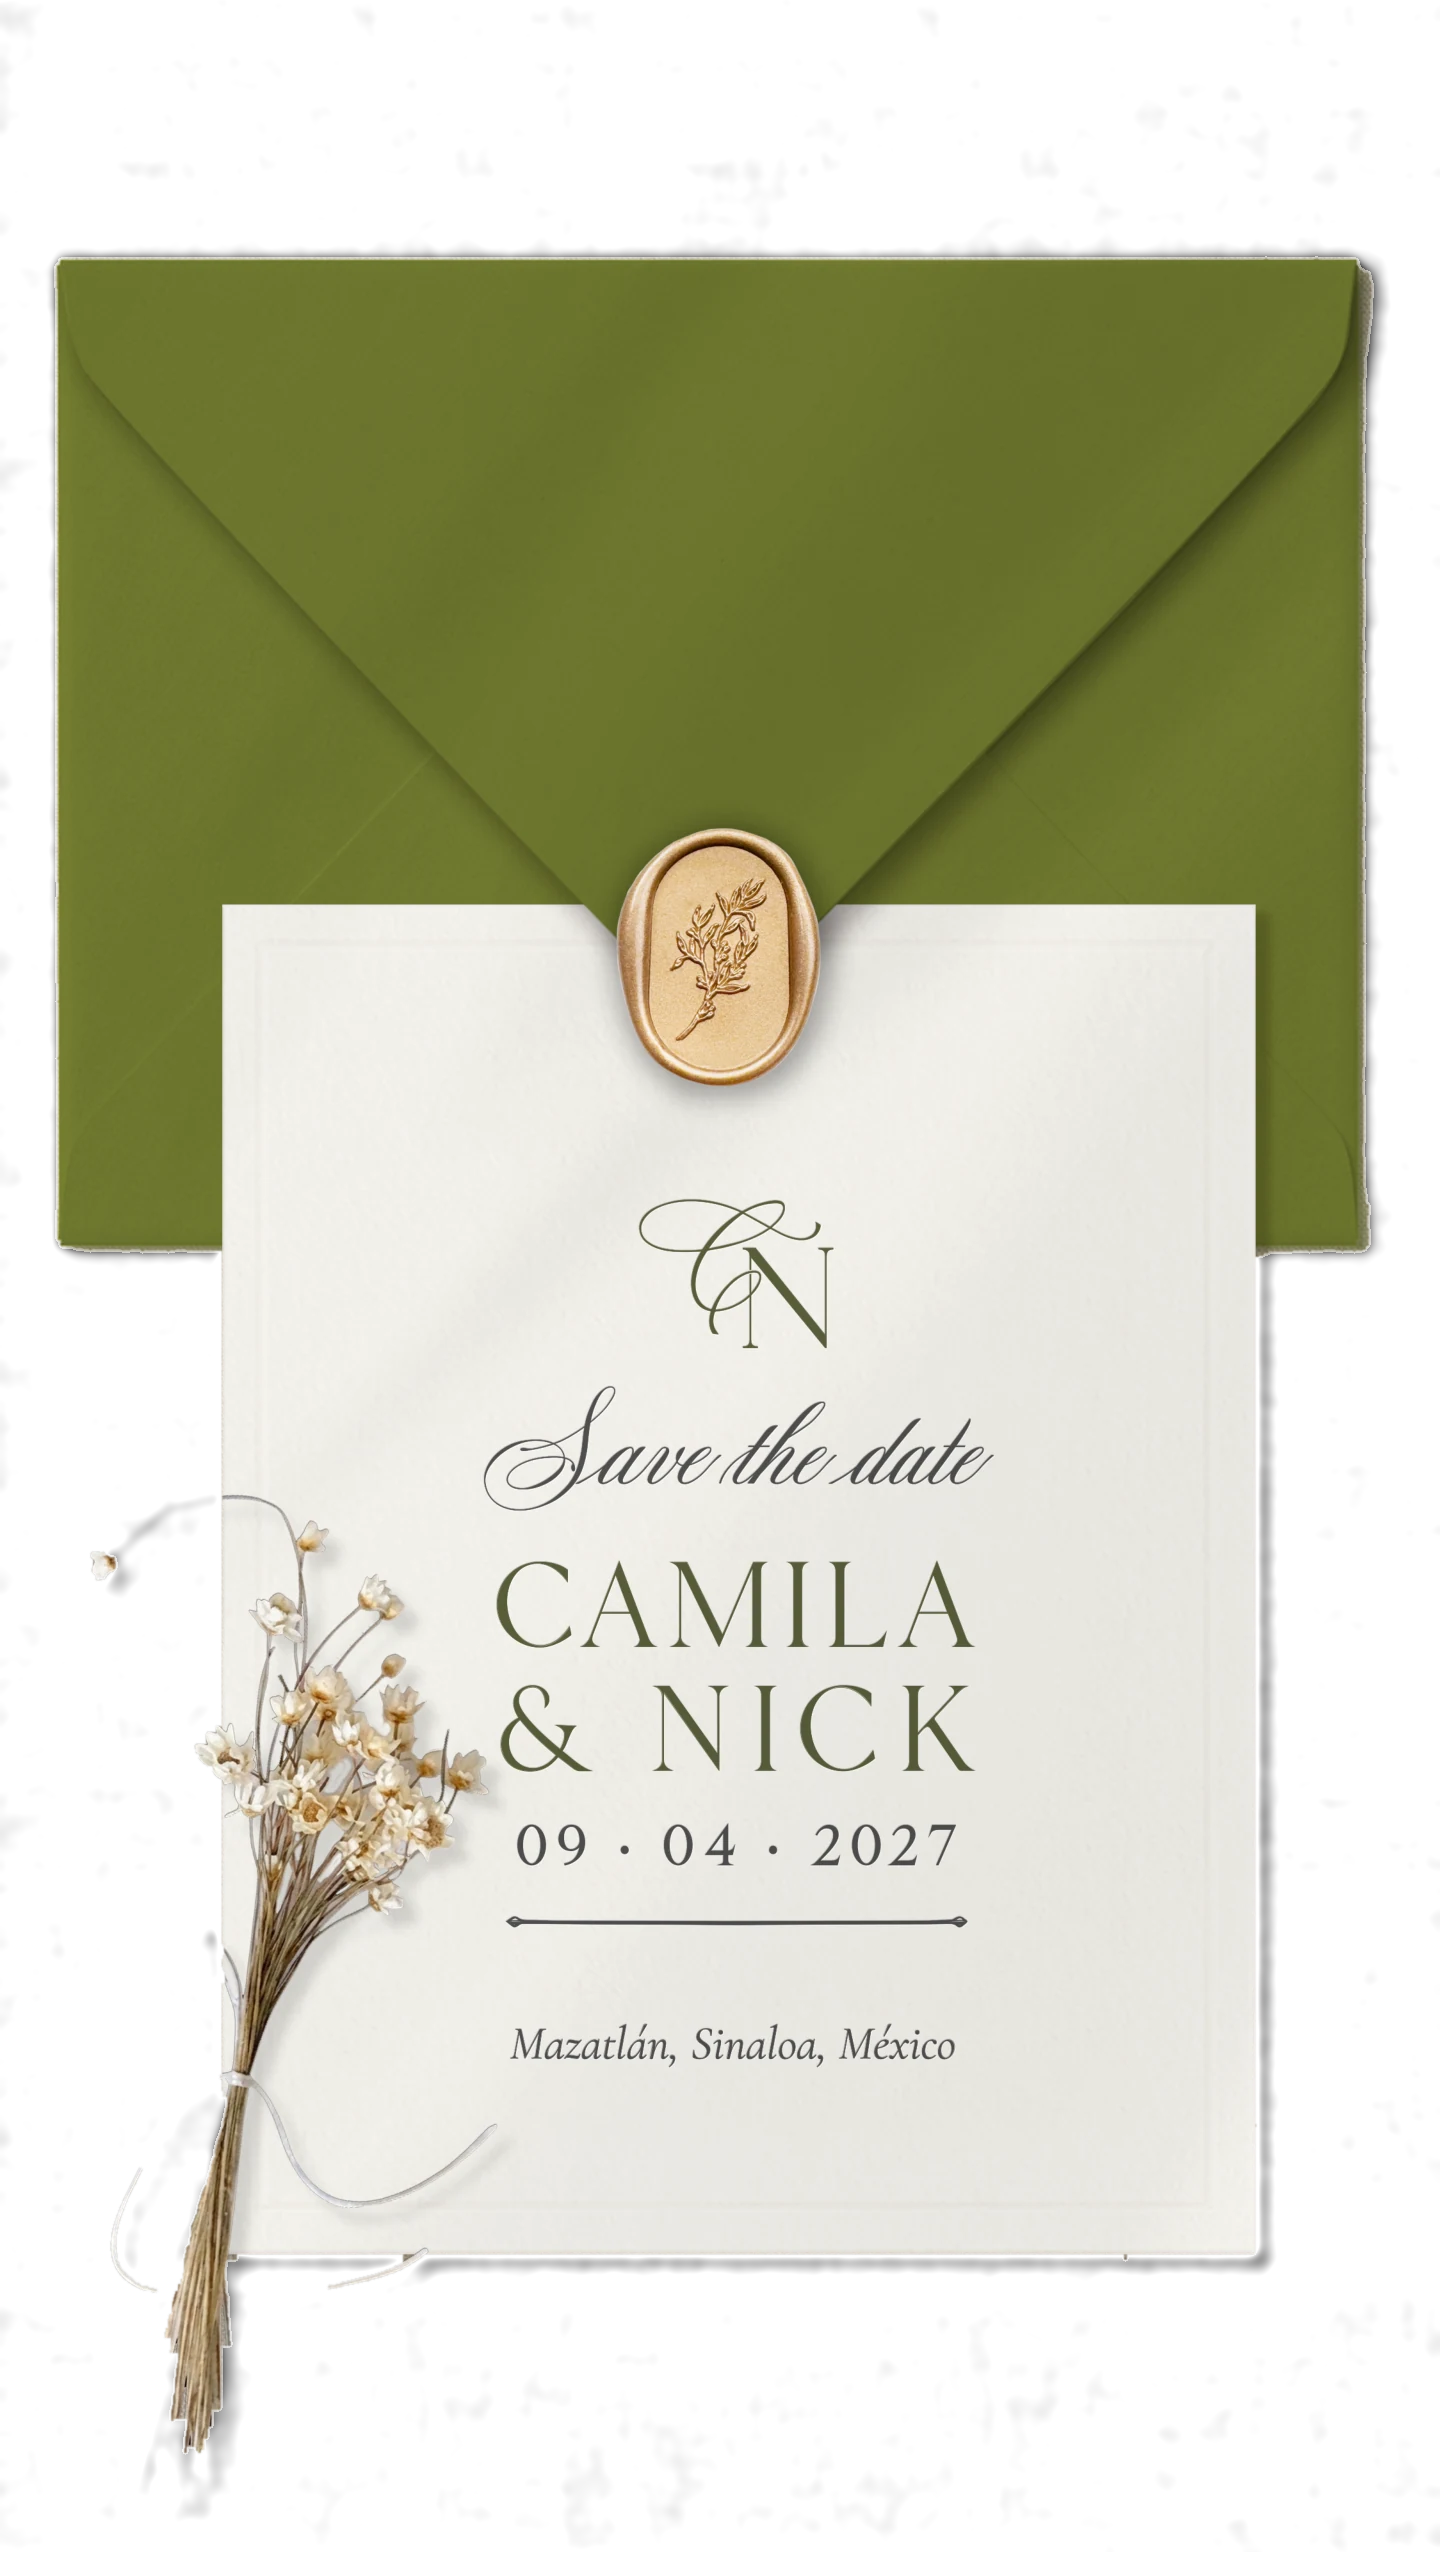
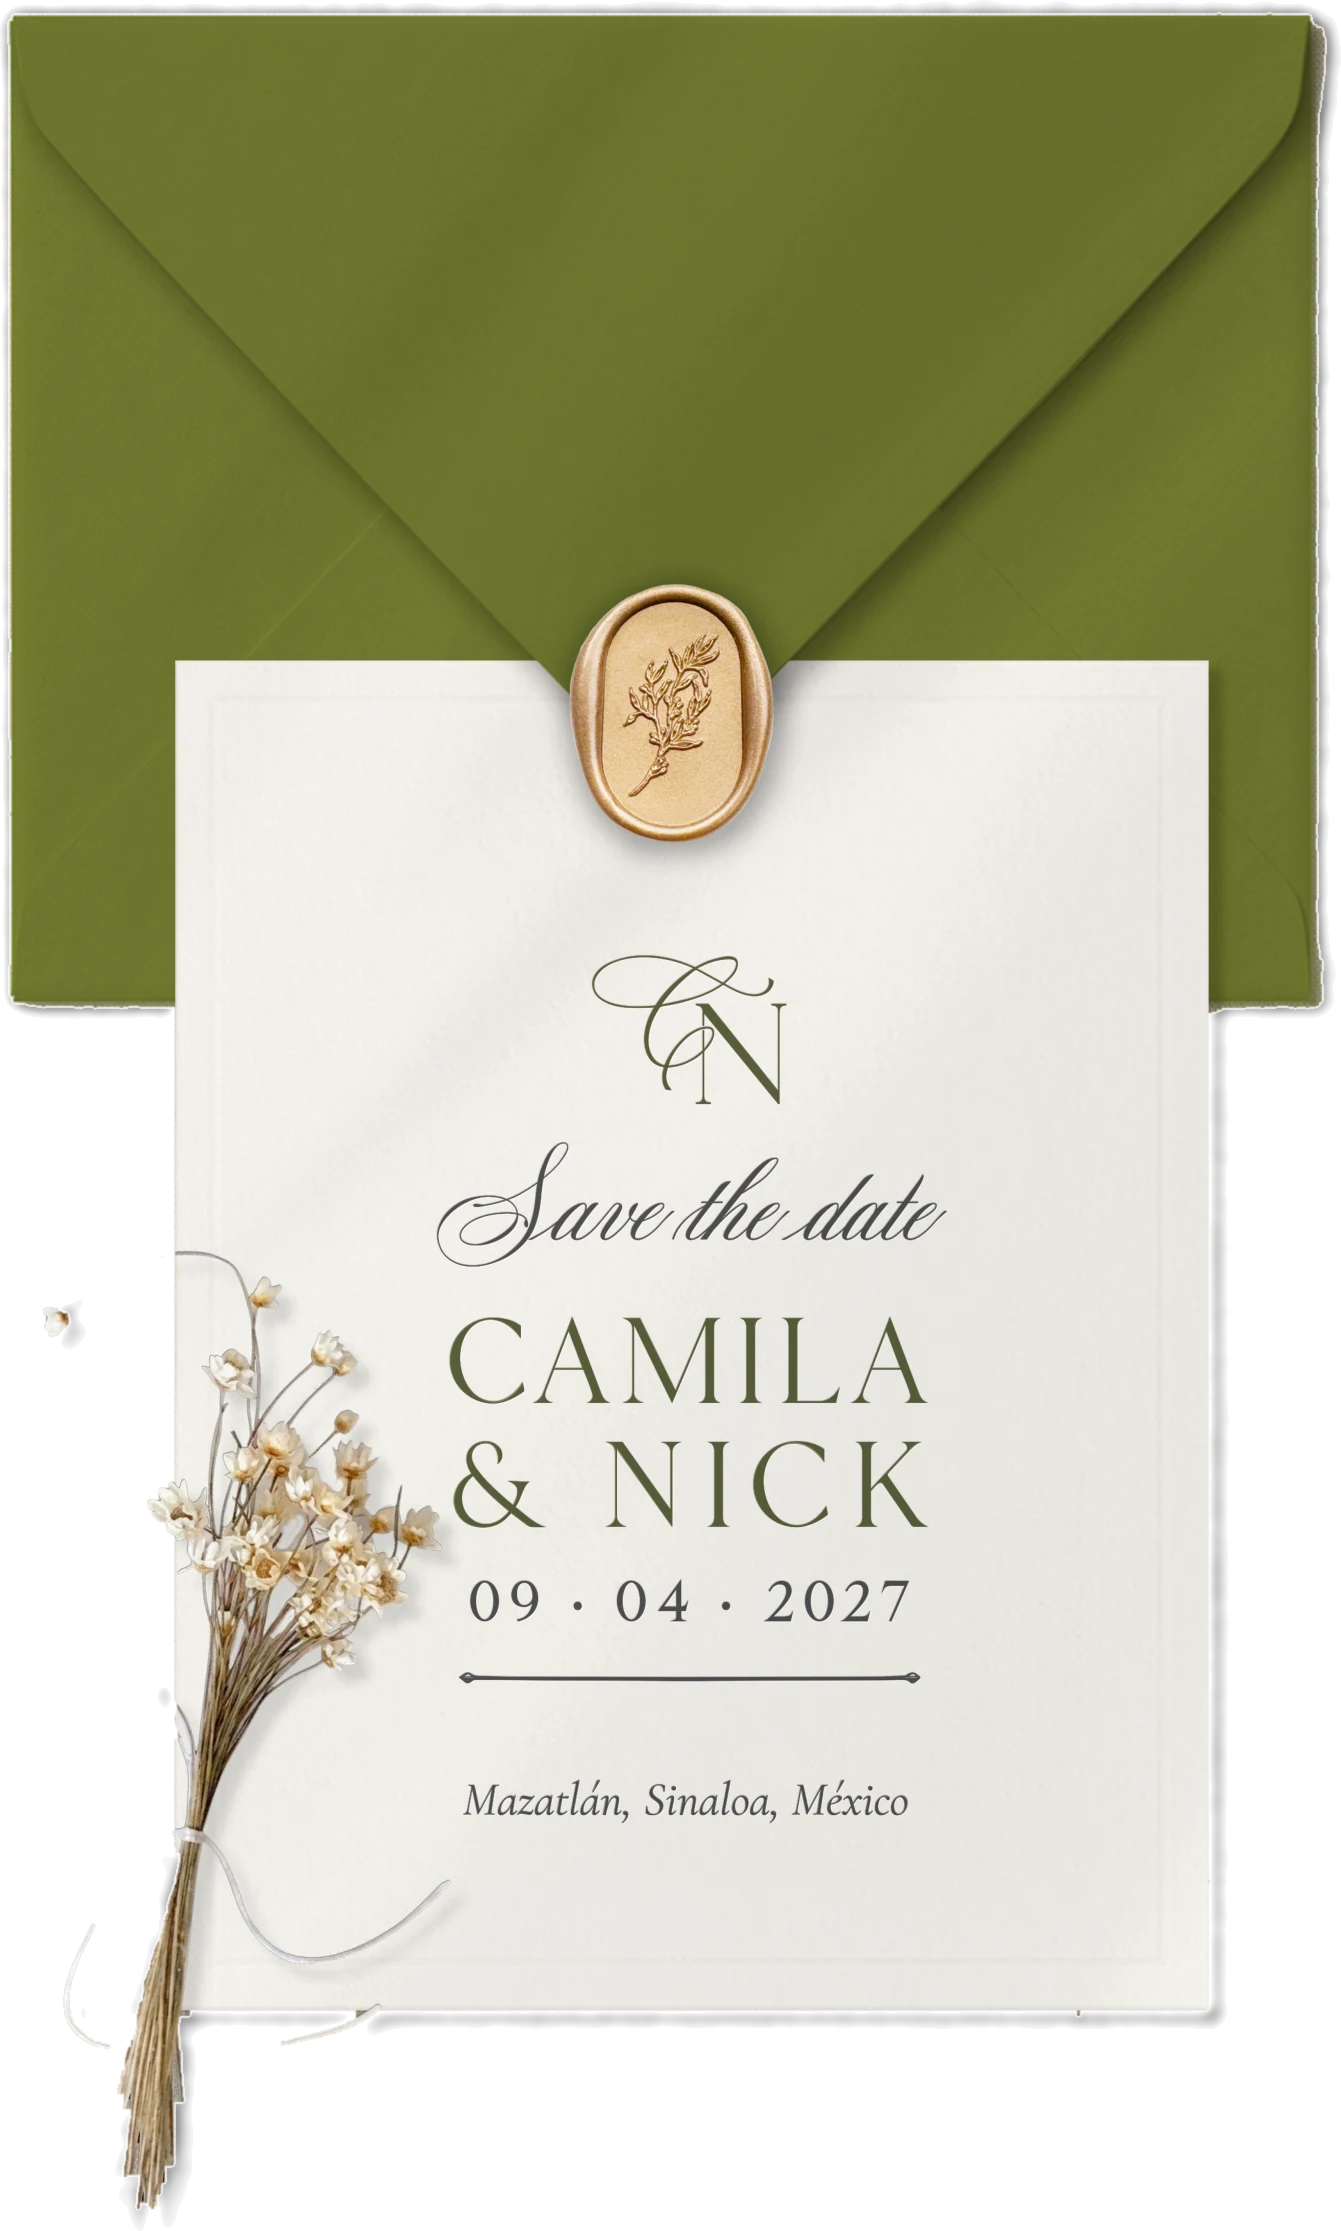
Clear space around cards, slower transitions, animated return to envelope
- Shadows trimmed to hug each card; empty linen around cards is fully transparent
- Opening and scroll reveal slowed by about a quarter
- Return to envelope plays in reverse: cards fade down, cover returns, card slides back in, flap closes, seal settles

Claude-Session: https://claude.ai/code/session_01VUW2DL1pxHZW5YBbu8ue5b

Changed region(s): [[0.0, 0.0, 1.0, 1.0], [0.0306, 0.5876, 0.1223, 0.6186]]

diff --git a/index.html b/index.html
@@ -20,7 +20,7 @@
 :root{color-scheme:light;--olive:#69722c;--olive-d:#565d27;--ink:#3c3d33;--soft:#5e5f52;--gold:#b8955a;--ivory:#fbf9f4;--line:#e3ddcf}
 *{box-sizing:border-box;min-width:0}
 html{scroll-behavior:smooth}
-body{margin:0;color:var(--ink);font:18px/1.55 "Cormorant Garamond",Georgia,serif;overflow-x:clip;background:#b7ac9d url(img/linen.jpg?v=9);background-size:360px}
+body{margin:0;color:var(--ink);font:18px/1.55 "Cormorant Garamond",Georgia,serif;overflow-x:clip;background:#b7ac9d url(img/linen.jpg?v=10);background-size:360px}
 body.locked{overflow:hidden;height:100vh}
 img{display:block;max-width:100%}
 button{font:inherit}
@@ -30,10 +30,10 @@ button{font:inherit}
 a{color:inherit}
 a[x-apple-data-detectors]{color:inherit!important;text-decoration:none!important;font:inherit!important}
 :focus-visible{outline:2px solid var(--gold);outline-offset:4px}
-.olivefill-unused{background:#93a246 url(img/linen.jpg?v=9);background-blend-mode:multiply;background-size:300px}
+.olivefill-unused{background:#93a246 url(img/linen.jpg?v=10);background-blend-mode:multiply;background-size:300px}
 
 /* ── cover ── */
-#cover{position:fixed;inset:0;z-index:40;display:grid;place-items:center;background:#b7ac9d url(img/linen.jpg?v=9);background-size:360px;transition:opacity .7s cubic-bezier(.4,0,.2,1)}
+#cover{position:fixed;inset:0;z-index:40;display:grid;place-items:center;background:#b7ac9d url(img/linen.jpg?v=10);background-size:360px;transition:opacity 1s cubic-bezier(.4,0,.2,1)}
 #cover.out{opacity:0;pointer-events:none}
 .cv{display:grid;justify-items:center;text-align:center;padding:24px;gap:4px}
 .cv .cvnames{font-size:clamp(46px,10vw,74px);margin:4px 0 30px}
@@ -42,7 +42,7 @@ a[x-apple-data-detectors]{color:inherit!important;text-decoration:none!important
 .env>*{position:absolute;pointer-events:none}
 .env-shadow{inset:1.5% 1% 0;border-radius:4px;box-shadow:0 30px 44px -20px rgba(40,35,20,.55),0 6px 14px rgba(0,0,0,.16)}
 .e-back{inset:0;border-radius:4px;background:linear-gradient(#4a521f,#5f6929)}
-.e-card{z-index:1;left:6%;right:6%;top:5%;bottom:3%;background:#fbf9f3;display:flex;flex-direction:column;align-items:center;padding-top:6%;gap:2px;box-shadow:0 1px 3px rgba(0,0,0,.18);transform:translate3d(0,0,0);transition:transform 1s cubic-bezier(.22,1,.36,1) .5s;will-change:transform}
+.e-card{z-index:1;left:6%;right:6%;top:5%;bottom:3%;background:#fbf9f3;display:flex;flex-direction:column;align-items:center;padding-top:6%;gap:2px;box-shadow:0 1px 3px rgba(0,0,0,.18);transform:translate3d(0,0,0);transition:transform 1.3s cubic-bezier(.22,1,.36,1) .65s;will-change:transform}
 .e-card::after{content:"";position:absolute;inset:4.5%;border:1px solid #e6e0d2}
 .e-card .mono{position:relative;width:44px;height:38px;color:var(--olive-d)}
 .e-card .mono b{position:absolute;left:2px;top:-8px;font:400 40px/1 "Pinyon Script",cursive}
@@ -51,17 +51,21 @@ a[x-apple-data-detectors]{color:inherit!important;text-decoration:none!important
 .e-card .nm{font:500 clamp(18px,4.2vw,26px)/1.05 "Cormorant Garamond",serif;letter-spacing:.08em;color:var(--olive-d)!important}
 .e-card .dt{font-size:12px;letter-spacing:.22em;color:var(--ink)!important;margin-top:4px}
 .e-card span{text-decoration:none!important}
-.e-pocket{z-index:2;inset:0;border-radius:4px;background:url(img/env-real.jpg?v=9) top/100% 100% no-repeat;clip-path:polygon(0 9.95%,49.4% 78.6%,100% 9.95%,100% 100%,0 100%)}
-.e-flap{z-index:3;left:0;top:0;width:100%;height:78.6%;transform-origin:50% 0;transform-style:preserve-3d;transform:rotateX(0deg);transition:transform .8s cubic-bezier(.65,0,.35,1) .2s,z-index 0s .6s;will-change:transform}
+.e-pocket{z-index:2;inset:0;border-radius:4px;background:url(img/env-real.jpg?v=10) top/100% 100% no-repeat;clip-path:polygon(0 9.95%,49.4% 78.6%,100% 9.95%,100% 100%,0 100%)}
+.e-flap{z-index:3;left:0;top:0;width:100%;height:78.6%;transform-origin:50% 0;transform-style:preserve-3d;transform:rotateX(0deg);transition:transform 1s cubic-bezier(.65,0,.35,1) .25s,z-index 0s .75s;will-change:transform}
 .f-front,.f-back{position:absolute;inset:0;-webkit-backface-visibility:hidden;backface-visibility:hidden}
-.f-front{background:url(img/env-real.jpg?v=9) top/100% 127.2% no-repeat;clip-path:polygon(-1% 0,101% 0,101% 12.7%,49.4% 101.5%,-1% 12.7%)}
-.f-back{background:url(img/env-liner-hd.webp?v=9) center/100% 100% no-repeat;transform:rotateX(180deg)}
+.f-front{background:url(img/env-real.jpg?v=10) top/100% 127.2% no-repeat;clip-path:polygon(-1% 0,101% 0,101% 12.7%,49.4% 101.5%,-1% 12.7%)}
+.f-back{background:url(img/env-liner-hd.webp?v=10) center/100% 100% no-repeat;transform:rotateX(180deg)}
 .e-seal{z-index:4;left:50.4%;top:70.8%;width:15.2%;transform:translate3d(-50%,-50%,0);filter:drop-shadow(0 4px 5px rgba(0,0,0,.35));will-change:transform,opacity}
 .env:not(.open) .e-seal{animation:breathe 2.8s cubic-bezier(.45,0,.55,1) infinite}
-.env.open .e-seal{animation:sealOff .6s cubic-bezier(.4,0,.2,1) forwards}
+.env.open .e-seal{animation:sealOff .75s cubic-bezier(.4,0,.2,1) forwards}
+.env.closing .e-card{transition:transform 1.1s cubic-bezier(.65,0,.35,1) 0s}
+.env.closing .e-flap{transition:transform 1s cubic-bezier(.65,0,.35,1) .8s,z-index 0s 1.3s}
+.env.closing .e-seal{animation:sealOn .8s cubic-bezier(.22,1,.36,1) 1.75s both}
 .env.open .e-flap{transform:rotateX(180deg);z-index:0}
 .env.open .e-card{transform:translate3d(0,-50%,0)}
 @keyframes breathe{50%{transform:translate3d(-50%,-50%,0) scale(1.04)}}
+@keyframes sealOn{0%{transform:translate3d(-50%,-95%,0) scale(1.06);opacity:0}70%{transform:translate3d(-50%,-50%,0) scale(.94);opacity:1}100%{transform:translate3d(-50%,-50%,0) scale(1);opacity:1}}
 @keyframes sealOff{0%{transform:translate3d(-50%,-50%,0) scale(1);opacity:1}25%{transform:translate3d(-50%,-50%,0) scale(.92);opacity:1}100%{transform:translate3d(-50%,-95%,0) scale(1.06);opacity:0}}
 .cv{transition:transform 1s cubic-bezier(.22,1,.36,1)}
 #cover.out .cv{transform:translate3d(0,-12px,0) scale(1.03)}
@@ -69,9 +73,9 @@ a[x-apple-data-detectors]{color:inherit!important;text-decoration:none!important
 
 /* ── her original invitation ── */
 .pdf{position:relative;width:min(100%,640px);margin:0 auto}
-.pdf img{position:absolute;display:block;height:auto;opacity:0;transform:translate3d(0,48px,0);transition:opacity 1s cubic-bezier(.4,0,.2,1),transform 1.25s cubic-bezier(.22,1,.36,1);will-change:opacity,transform}
+.pdf img{position:absolute;display:block;height:auto;opacity:0;transform:translate3d(0,56px,0);transition:opacity 1.4s cubic-bezier(.4,0,.2,1),transform 1.7s cubic-bezier(.22,1,.36,1);will-change:opacity,transform}
 .pdf img.in{opacity:1;transform:translate3d(0,0,0)}
-.rise{opacity:0;transform:translate3d(0,30px,0);transition:opacity 1s cubic-bezier(.4,0,.2,1),transform 1.2s cubic-bezier(.22,1,.36,1)}
+.rise{opacity:0;transform:translate3d(0,34px,0);transition:opacity 1.4s cubic-bezier(.4,0,.2,1),transform 1.6s cubic-bezier(.22,1,.36,1)}
 .rise.in{opacity:1;transform:translate3d(0,0,0)}
 .cv>*{animation:introRise 1.1s cubic-bezier(.22,1,.36,1) both}
 .cv>*:nth-child(1){animation-delay:.15s}.cv>*:nth-child(2){animation-delay:.28s}.cv>*:nth-child(3){animation-delay:.42s}.cv>*:nth-child(4){animation-delay:.6s}.cv>*:nth-child(5){animation-delay:.85s}
@@ -99,7 +103,7 @@ body.opened .reenv{opacity:1;pointer-events:auto}
    <div class="e-card"><div class="mono"><b>C</b><i>N</i></div><span class="script">Save the date</span><span class="nm">CAMILA<br>&amp; NICK</span><span class="caps dt"><span>09</span> · <span>04</span> · <span>2027</span></span></div>
    <div class="e-pocket"></div>
    <div class="e-flap"><div class="f-front"></div><div class="f-back"></div></div>
-   <img class="e-seal" src="img/seal-pdf.webp?v=9" alt="">
+   <img class="e-seal" src="img/seal-pdf.webp?v=10" alt="">
   </button>
   <div class="tap caps">Toca para abrir · Tap to see inside</div>
  </div>
@@ -115,12 +119,12 @@ body.opened .reenv{opacity:1;pointer-events:auto}
 <script>
 {
 // One entry per invitation version (Invitados 1, 2, …). Link a guest with ?invitados=2
-const INV={"2": {"w": 1440, "h": 10297, "links": [{"x": 37.714, "y": 43.667, "w": 33.471, "h": 2.107, "uri": "https://maps.app.goo.gl/gSUrrUd9CPuR6mM3A", "label": "Ver ubicaci\u00f3n de la ceremonia \u00b7 Ceremony location"}, {"x": 11.194, "y": 79.533, "w": 28.391, "h": 2.865, "uri": "https://www.camilaandnick.com/registry", "label": "Sugerencia de regalo \u00b7 Gift suggestion"}, {"x": 13.845, "y": 70.021, "w": 37.487, "h": 4.215, "uri": "https://www.camilaandnick.com/", "label": "Ver p\u00e1gina \u00b7 Visit website"}, {"x": 16.118, "y": 89.382, "w": 29.115, "h": 5.616, "uri": "https://www.camilaandnick.com/rsvp", "label": "Confirma aqu\u00ed \u00b7 R.S.V.P. here"}, {"x": 61.064, "y": 68.073, "w": 23.777, "h": 1.975, "uri": "https://maps.app.goo.gl/jxMHLZ9EfkpKpbPw7", "label": "Ver ubicaci\u00f3n de la recepci\u00f3n \u00b7 Reception location"}], "pieces": [{"n": "p1", "x": 0.0, "y": 0.0777, "w": 100.0, "h": 24.7839}, {"n": "p2", "x": 0.0, "y": 24.8616, "w": 100.0, "h": 23.3078}, {"n": "p3", "x": 0.0, "y": 48.1694, "w": 100.0, "h": 28.9987}, {"n": "p4", "x": 0.5556, "y": 75.2646, "w": 47.3611, "h": 7.8955}, {"n": "p5", "x": 0.0, "y": 73.8079, "w": 100.0, "h": 26.1921}]}};
+const INV={"2": {"w": 1440, "h": 10297, "links": [{"x": 37.714, "y": 43.667, "w": 33.471, "h": 2.107, "uri": "https://maps.app.goo.gl/gSUrrUd9CPuR6mM3A", "label": "Ver ubicaci\u00f3n de la ceremonia \u00b7 Ceremony location"}, {"x": 11.194, "y": 79.533, "w": 28.391, "h": 2.865, "uri": "https://www.camilaandnick.com/registry", "label": "Sugerencia de regalo \u00b7 Gift suggestion"}, {"x": 13.845, "y": 70.021, "w": 37.487, "h": 4.215, "uri": "https://www.camilaandnick.com/", "label": "Ver p\u00e1gina \u00b7 Visit website"}, {"x": 16.118, "y": 89.382, "w": 29.115, "h": 5.616, "uri": "https://www.camilaandnick.com/rsvp", "label": "Confirma aqu\u00ed \u00b7 R.S.V.P. here"}, {"x": 61.064, "y": 68.073, "w": 23.777, "h": 1.975, "uri": "https://maps.app.goo.gl/jxMHLZ9EfkpKpbPw7", "label": "Ver ubicaci\u00f3n de la recepci\u00f3n \u00b7 Reception location"}], "pieces": [{"n": "p1", "x": 3.2639, "y": 2.4473, "w": 93.125, "h": 21.6665}, {"n": "p2", "x": 5.4861, "y": 25.7065, "w": 89.5139, "h": 21.7054}, {"n": "p3", "x": 3.8889, "y": 49.0725, "w": 94.6528, "h": 28.0956}, {"n": "p4", "x": 3.3333, "y": 75.5948, "w": 44.2361, "h": 7.5168}, {"n": "p5", "x": 6.6667, "y": 73.8079, "w": 90.7639, "h": 22.5891}]}};
 const want=new URLSearchParams(location.search).get('invitados');
 const key=INV[want]?want:Object.keys(INV)[0], v=INV[key];
 const pdf=document.getElementById('pdf');
 pdf.style.aspectRatio=v.w+'/'+v.h;
-const pieces=v.pieces.map((pc,i)=>{const im=document.createElement('img');im.src='img/inv/inv'+key+'-'+pc.n+'.webp?v=9';im.alt=i?'':'Invitación de Camila y Nick';im.decoding='async';
+const pieces=v.pieces.map((pc,i)=>{const im=document.createElement('img');im.src='img/inv/inv'+key+'-'+pc.n+'.webp?v=10';im.alt=i?'':'Invitación de Camila y Nick';im.decoding='async';
  im.style.cssText='left:'+pc.x+'%;top:'+pc.y+'%;width:'+pc.w+'%';pdf.appendChild(im);return im});
 v.links.forEach(l=>{const a=document.createElement('a');a.className='hot';a.href=l.uri;a.setAttribute('aria-label',l.label);
  a.style.cssText='left:'+l.x+'%;top:'+l.y+'%;width:'+l.w+'%;height:'+l.h+'%';pdf.appendChild(a)});
@@ -132,23 +136,32 @@ let io=null;
 function startReveal(){
  if(io) io.disconnect();
  let n=0;
- io=new IntersectionObserver(es=>{es.forEach(e=>{if(e.isIntersecting&&body.classList.contains('opened')){const el=e.target;el.style.transitionDelay=(n++*0.14)+'s';el.classList.add('in');io.unobserve(el);setTimeout(()=>{n=Math.max(0,n-1)},140)}})},{rootMargin:'0px 0px -8% 0px',threshold:0.08});
+ io=new IntersectionObserver(es=>{es.forEach(e=>{if(e.isIntersecting&&body.classList.contains('opened')){const el=e.target;el.style.transitionDelay=(n++*0.2)+'s';el.classList.add('in');io.unobserve(el);setTimeout(()=>{n=Math.max(0,n-1)},200)}})},{rootMargin:'0px 0px -8% 0px',threshold:0.08});
  [...pieces,foot].forEach(el=>io.observe(el));
 }
 function resetReveal(){[...pieces,foot].forEach(el=>{el.classList.remove('in');el.style.transitionDelay='0s'});if(io)io.disconnect();}
 const reduce=matchMedia('(prefers-reduced-motion: reduce)').matches;
-let timer;
+let timer,closing=false;
 env.addEventListener('click',()=>{
- if(env.classList.contains('open'))return;
+ if(closing||env.classList.contains('open'))return;
  env.classList.add('open');
- timer=setTimeout(()=>{cover.classList.add('out');body.classList.remove('locked');window.scrollTo(0,0);body.classList.add('opened');setTimeout(startReveal,520)},reduce?250:1550);
+ timer=setTimeout(()=>{cover.classList.add('out');body.classList.remove('locked');window.scrollTo(0,0);body.classList.add('opened');setTimeout(startReveal,700)},reduce?250:1950);
 });
 const reclose=()=>{
- clearTimeout(timer);
- body.classList.remove('opened');body.classList.add('locked');resetReveal();
- const els=[env,...env.querySelectorAll('*')];els.forEach(c=>c.style.transition='none');
- env.classList.remove('open');void env.offsetWidth;els.forEach(c=>c.style.transition='');
- cover.classList.remove('wash','out');window.scrollTo(0,0);
+ if(closing||!body.classList.contains('opened'))return;
+ closing=true; clearTimeout(timer); if(io)io.disconnect();
+ // 1. the invitation drifts down and fades
+ [...pieces,foot].forEach(el=>{el.style.transitionDelay='0s';el.classList.remove('in')});
+ setTimeout(()=>{
+  // 2. the cover fades back in with the card still out of the envelope
+  window.scrollTo(0,0); body.classList.remove('opened'); body.classList.add('locked');
+  cover.classList.remove('out');
+  setTimeout(()=>{
+   // 3. card slides back in, flap closes, seal settles back on
+   env.classList.add('closing'); env.classList.remove('open');
+   setTimeout(()=>{env.classList.remove('closing');closing=false},2700);
+  },reduce?100:1000);
+ },reduce?100:900);
 };
 document.getElementById('back').addEventListener('click',reclose);
 document.getElementById('reenv').addEventListener('click',reclose);
